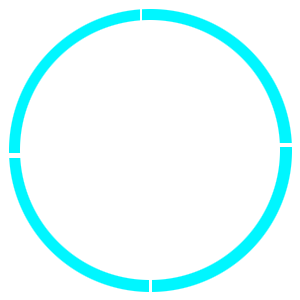
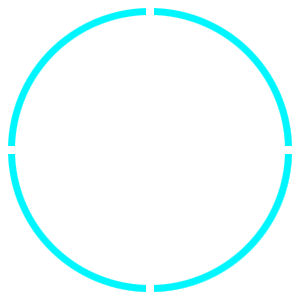
louyu

Changed region(s): [[0.0, 0.0, 0.99, 0.99]]

diff --git a/src/pages/louyu/index.js b/src/pages/louyu/index.js
@@ -77,8 +77,8 @@ function Louyu() {
         const louyuTopMesh = new THREE.Mesh(louyuTopGeometry, white1Material);
         louyuTopMesh.position.set(0, 138, 0);
 
-        // 楼宇底部
-        const louyuBottomGeometry = new THREE.BoxBufferGeometry(220, 2, 200);
+        // 楼宇白色底盘
+        const louyuBottomGeometry = new THREE.CylinderBufferGeometry(130, 130, 2, 150);
         const louyuBottomMesh = new THREE.Mesh(louyuBottomGeometry, white1Material);
         louyuBottomMesh.position.set(0, -130, 0);
 
@@ -117,11 +117,20 @@ function Louyu() {
         louyuDecoration2Mesh.position.set(0, 120, 0);
 
         // 底部圆圈
-        const yqGeometry = new THREE.CylinderBufferGeometry(200, 200, 1, 150);
-        // const yqMaterial = new THREE.MeshBasicMaterial({ color: 0xffff00 });
+        const yqGeometry = new THREE.CylinderBufferGeometry(190, 190, 1, 150);
         const yqMesh = new THREE.Mesh(yqGeometry, [null, yqMaterial, yqMaterial, null, null, null]);
         yqMesh.position.set(0, -130, 0);
-        louyuGroup.add(yqMesh);
+
+        const yqGeometry2 = new THREE.CylinderBufferGeometry(170, 170, 1, 150);
+        const yqMesh2 = new THREE.Mesh(yqGeometry2, [
+            null,
+            yqMaterial,
+            yqMaterial,
+            null,
+            null,
+            null,
+        ]);
+        yqMesh2.position.set(0, -131, 0);
 
         louyuGroup.add(
             louyuMesh,
@@ -129,7 +138,9 @@ function Louyu() {
             louyuTopMesh,
             louyuDecorationMesh,
             louyuDecoration2Mesh,
-            louyuBottomMesh
+            louyuBottomMesh,
+            yqMesh,
+            yqMesh2
             // gridGroup
         );
         scene.add(louyuGroup);
@@ -176,6 +187,7 @@ function Louyu() {
             renderer.render(scene, camera);
             // 动画元素执行
             yqMesh.rotation.y += 0.02;
+            yqMesh2.rotation.y -= 0.02;
         }
         render();
 
